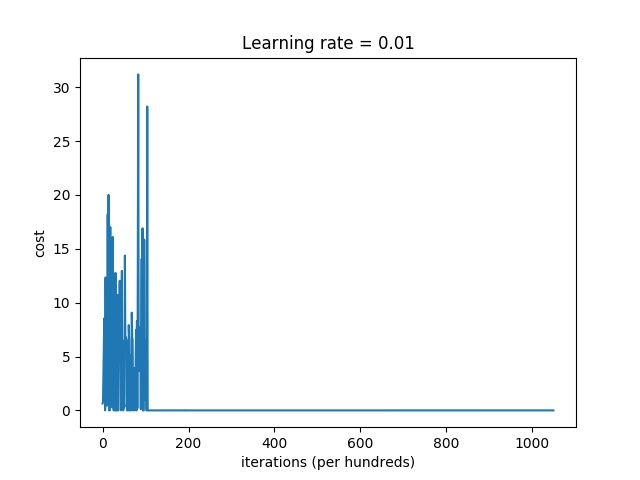
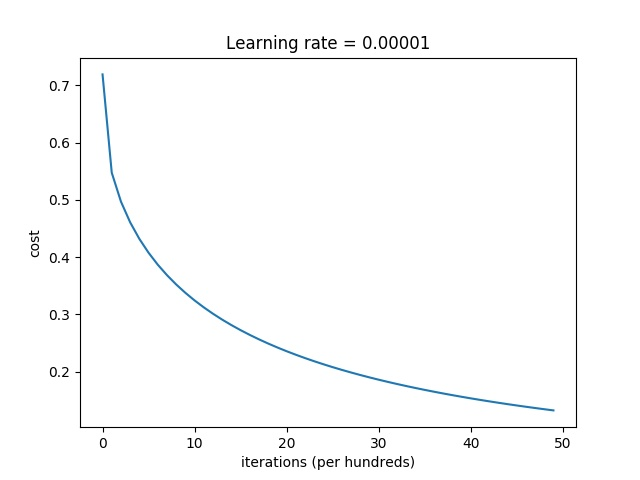
减小learning_rate和提升num_passes

diff --git a/lesson4/nn_paddle.py b/lesson4/nn_paddle.py
@@ -3,7 +3,9 @@ import PIL
 import sys
 import numpy as np
 import paddle.v2 as paddle
-# import matplotlib.pyplot as plt
+import matplotlib
+matplotlib.use('Agg')
+import matplotlib.pyplot as plt
 import h5py
 import scipy
 from PIL import Image
@@ -80,12 +82,12 @@ def main():
     parameters = paddle.parameters.create(cost)
 
     #     optimizer
-    optimizer = paddle.optimizer.Momentum(momentum=0, learning_rate=0.0001)
+    optimizer = paddle.optimizer.Momentum(momentum=0, learning_rate=0.00001)
 
     feeding = {
         'image': 0,
         'label': 1}
-
+    costs = []
     def event_handler(event):
         if isinstance(event, paddle.event.EndIteration):
             if event.batch_id % 100 == 0:
@@ -93,6 +95,8 @@ def main():
             else:
                 sys.stdout.write('.')
                 sys.stdout.flush()
+            if event.pass_id % 100 == 0:
+                costs.append(event.cost)
         # if isinstance(event, paddle.event.EndPass):
         #     #     parameters
         #     with open('params_pass_%d.tar' % event.pass_id, 'w') as f:
@@ -112,10 +116,10 @@ def main():
     trainer.train(
         reader=paddle.batch(
             paddle.reader.shuffle(train(), buf_size=50000),
-            batch_size=20),
+            batch_size=256),
         feeding=feeding,
         event_handler=event_handler,
-        num_passes=1000)
+        num_passes=10000)
 
     test_data_creator = test()
     test_data_image = []
@@ -163,6 +167,15 @@ def main():
 
     print("test_accuracy: {} %".format((float(test_right) / float(test_total)) * 100))
     print(test_right, test_total)
+
+    # Plot learning curve (with costs)
+    costs = np.squeeze(costs)
+    plt.plot(costs)
+    plt.ylabel('cost')
+    plt.xlabel('iterations (per hundreds)')
+    plt.title("Learning rate = 0.00001")
+    plt.show()
+    plt.savefig("costs.jpg")
 
 if __name__=='__main__':
     main()

diff --git a/lesson5/multi_nn_paddle.py b/lesson5/multi_nn_paddle.py
@@ -86,12 +86,12 @@ def main():
     parameters = paddle.parameters.create(cost)
 
     #     optimizer
-    optimizer = paddle.optimizer.Momentum(momentum=0, learning_rate=0.0001)
+    optimizer = paddle.optimizer.Momentum(momentum=0, learning_rate=0.00001)
 
     feeding = {
         'image': 0,
         'label': 1}
-
+    costs = []
     def event_handler(event):
         if isinstance(event, paddle.event.EndIteration):
             if event.batch_id % 100 == 0:
@@ -99,6 +99,8 @@ def main():
             else:
                 sys.stdout.write('.')
                 sys.stdout.flush()
+            if event.pass_id % 100 == 0:
+                costs.append(event.cost)
         # if isinstance(event, paddle.event.EndPass):
         #     #     parameters
         #     with open('params_pass_%d.tar' % event.pass_id, 'w') as f:
@@ -118,10 +120,10 @@ def main():
     trainer.train(
         reader=paddle.batch(
             paddle.reader.shuffle(train(), buf_size=50000),
-            batch_size=30),
+            batch_size=256),
         feeding=feeding,
         event_handler=event_handler,
-        num_passes=2000)
+        num_passes=10000)
 
     test_data_creator = test()
     test_data_image = []
@@ -170,5 +172,13 @@ def main():
     print("test_accuracy: {} %".format((float(test_right) / float(test_total)) * 100))
     print(test_right, test_total)
 
+    # Plot learning curve (with costs)
+    costs = np.squeeze(costs)
+    plt.plot(costs)
+    plt.ylabel('cost')
+    plt.xlabel('iterations (per hundreds)')
+    plt.title("Learning rate = 0.00001")
+    plt.show()
+    plt.savefig("costs.jpg")
 if __name__=='__main__':
     main()

diff --git a/lesson3/paddle_train.py b/lesson3/paddle_train.py
@@ -149,7 +149,7 @@ def main():
     parameters = paddle.parameters.create(cost)
 
     #创建optimizer
-    optimizer = paddle.optimizer.Momentum(momentum=0, learning_rate=0.01)
+    optimizer = paddle.optimizer.Momentum(momentum=0, learning_rate=0.00001)
 
     feeding = {
         'image': 0,
@@ -172,11 +172,11 @@ def main():
 
     trainer.train(
         reader=paddle.batch(
-            paddle.reader.shuffle(train(), buf_size=50000),
-            batch_size=2),
+            paddle.reader.shuffle(train(), buf_size=5000),
+            batch_size=256),
         feeding=feeding,
         event_handler=event_handler,
-        num_passes=1000)
+        num_passes=10000)
 
     # 获取测试数据和训练数据，用来验证模型准确度
     train_data = get_train_data()
@@ -199,7 +199,7 @@ def main():
     plt.plot(costs)
     plt.ylabel('cost')
     plt.xlabel('iterations (per hundreds)')
-    plt.title("Learning rate = 0.01")
+    plt.title("Learning rate = 0.00001")
     plt.show()
     plt.savefig("costs.jpg")
 

diff --git a/lesson3/train.py b/lesson3/train.py
@@ -181,7 +181,7 @@ def model(X_train, Y_train, X_test, Y_test, num_iterations = 2000, learning_rate
 
     return d
 
-d = model(train_set_x, train_set_y, test_set_x, test_set_y, num_iterations = 1000, learning_rate = 0.008, print_cost = True)
+d = model(train_set_x, train_set_y, test_set_x, test_set_y, num_iterations = 1000, learning_rate = 0.01, print_cost = True)
 
 # Plot learning curve (with costs)
 costs = np.squeeze(d['costs'])

diff --git a/lesson4/nn_python.py b/lesson4/nn_python.py
@@ -115,7 +115,7 @@ y = np.mat(train_set_y)
 
 #设置相关量
 j = 4 #每个隐藏层节点苏
-u = 0.09 #学习率
+u = 0.06 #学习率
 n = 209 #数据个数
 
 #初始化参数
@@ -127,7 +127,7 @@ b2 = inin_para(y.shape[0],1,0.01)
 
 
 #训练
-for i in range(2000):
+for i in range(5000):
 
     yout = calculate(x, w1, w2, b1, b2) #计算y
     dyout = dy_out(yout, y) #计算dy
